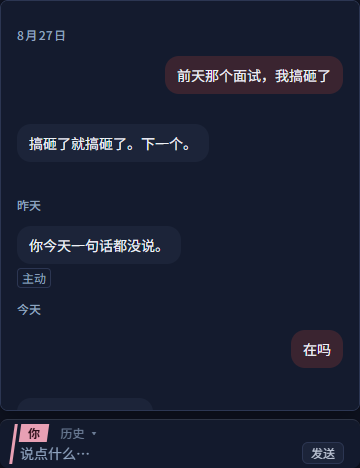
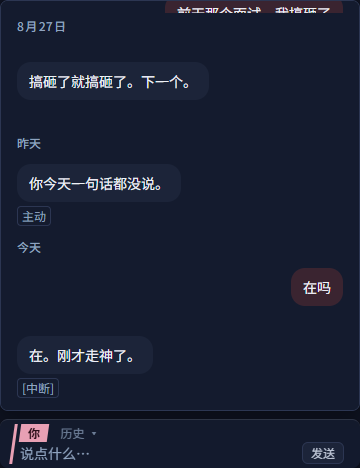
fix(desktop): park the history pane on the newest row, throttle paging, and key the composer restore on a counter
Review round 1, findings 1 (guard), 2, 3, 4 and 6. All five were in T8's own files.

FINDING 2 — History.tsx opened on the OLDEST row and burst-loaded the store.
The paging sentinel is the first child of the scroll container and nothing in the
file touched scrollTop. (a) The pane opened at scrollTop 0 although §6.3 orders rows
newest-at-the-bottom: docs/evidence/phase2/chat-history-light.png showed 8月27日 at
the top with the newest row (the [中断] row) clipped off the bottom edge. (b) With a
real store of >50 rows nextBefore is non-null and the sentinel is already
intersecting at open, so the effect fired, loaded page 2, `loading` flipped false,
the observer was re-created, the sentinel was still at scrollTop 0 and still
intersecting — page 3, 4, ... The whole store arrived in one burst and §6.3's 50-row
paging throttled nothing.

  - the pane gets a ref and, once the first page has painted, parks at
    scrollTop = scrollHeight (a layout effect, once, guarded by parkedRef);
  - the IntersectionObserver is gated on `pagingArmed`, set only while the pane is
    scrolled off the sentinel (scrollTop > 0), from the park and from onScroll;
  - an older page prepended above the reader restores the offset by the height it
    added, so the sentinel leaves the viewport and one scroll-up loads one page;
  - 历史 is a toggle, so closing the pane clears the park: reopening builds a fresh
    div at scrollTop 0 and would otherwise land on the oldest row again. Caught
[…]

diff --git a/apps/desktop/src/renderer/chat/History.test.tsx b/apps/desktop/src/renderer/chat/History.test.tsx
@@ -1,10 +1,11 @@
+// @vitest-environment jsdom
 // tsconfig.ui.json (T0's) includes src/renderer/chat but not src/renderer/test-setup.ts, so
 // jest-dom's `declare module 'vitest'` augmentation never reaches the strict UI type program.
 // Importing it here is what makes `toBeInTheDocument` exist for tsc; at runtime the setup file
 // has already applied it and a second import is a no-op.
 import '@testing-library/jest-dom/vitest';
 import type { HistoryRow } from '@ds/protocol';
-import { cleanup, fireEvent, render, screen, waitFor, within } from '@testing-library/react';
+import { act, cleanup, fireEvent, render, screen, waitFor, within } from '@testing-library/react';
 import { afterEach, describe, expect, it, vi } from 'vitest';
 import { History } from './History';
 
@@ -86,5 +87,70 @@ describe('History', () => {
   it('shows the empty-state copy when there is nothing to read', async () => {
     mount([]);
     await waitFor(() => expect(screen.getByText('还没聊过。说点什么吧。')).toBeInTheDocument());
+  });
+
+  // Fix round 1, finding 2 (a). 6.3 orders rows newest-at-the-bottom, so the pane must open on the
+  // newest row. It used to open at scrollTop 0 — the oldest row — with the newest one clipped off
+  // the bottom edge (visible in docs/evidence/phase2/chat-history-light.png).
+  it('opens parked on the newest row rather than scrolled to the oldest, every time it opens', async () => {
+    const desc = Object.getOwnPropertyDescriptor(Element.prototype, 'scrollHeight');
+    Object.defineProperty(Element.prototype, 'scrollHeight', { configurable: true, get: () => 1000 });
+    try {
+      const list = vi.fn(async () => ({ rows: ROWS, nextBefore: null }));
+      const remove = vi.fn(async () => {});
+      const view = render(<History open list={list} remove={remove} now={() => CLOCK} />);
+      await waitFor(() => expect(screen.getByTestId('msg-3')).toBeInTheDocument());
+      expect(screen.getByRole('log').scrollTop).toBe(1000);
+      // 历史 is a toggle: closing unmounts the pane, so the second open gets a fresh div at
+      // scrollTop 0 and has to be parked again.
+      view.rerender(<History open={false} list={list} remove={remove} now={() => CLOCK} />);
+      expect(screen.queryByRole('log')).toBeNull();
+      view.rerender(<History open list={list} remove={remove} now={() => CLOCK} />);
+      expect(screen.getByRole('log').scrollTop).toBe(1000);
+    } finally {
+      if (desc === undefined) delete (Element.prototype as { scrollHeight?: unknown }).scrollHeight;
+      else Object.defineProperty(Element.prototype, 'scrollHeight', desc);
+    }
+  });
+
+  // Fix round 1, finding 2 (b). The sentinel is the first child of the scroll container, so at
+  // scrollTop 0 it is permanently intersecting: the observer fired, loaded, re-attached, fired
+  // again, and pulled the whole store in one burst. jsdom keeps scrollTop at 0 (no layout), which
+  // is exactly the state the gate has to refuse to observe in.
+  it('does not pull page after page the moment the pane opens', async () => {
+    const observed: Element[] = [];
+    class FakeIO {
+      constructor(private readonly cb: IntersectionObserverCallback) {}
+      observe(el: Element): void {
+        observed.push(el);
+        this.cb(
+          [{ isIntersecting: true, target: el } as IntersectionObserverEntry],
+          this as unknown as IntersectionObserver,
+        );
+      }
+      unobserve(): void {}
+      disconnect(): void {}
+      takeRecords(): IntersectionObserverEntry[] {
+        return [];
+      }
+    }
+    const holder = globalThis as { IntersectionObserver?: unknown };
+    const prev = holder.IntersectionObserver;
+    holder.IntersectionObserver = FakeIO;
+    try {
+      const list = vi.fn(async (opts: { before?: number; limit?: number }) => ({
+        rows: opts.before === undefined ? ROWS : [],
+        nextBefore: opts.before === undefined ? 100 : null,
+      }));
+      render(<History open list={list} remove={vi.fn(async () => {})} now={() => CLOCK} />);
+      await waitFor(() => expect(screen.getByTestId('msg-3')).toBeInTheDocument());
+      await act(async () => {
+        await new Promise((r) => setTimeout(r, 0));
+      });
+      expect(list).toHaveBeenCalledTimes(1);
+      expect(observed).toHaveLength(0);
+    } finally {
+      holder.IntersectionObserver = prev;
+    }
   });
 });

diff --git a/apps/desktop/src/renderer/chat/History.tsx b/apps/desktop/src/renderer/chat/History.tsx
@@ -1,4 +1,4 @@
-import { useCallback, useEffect, useRef, useState } from 'react';
+import { useCallback, useEffect, useLayoutEffect, useRef, useState } from 'react';
 import type { JSX } from 'react';
 import type { HistoryRow } from '@ds/protocol';
 
@@ -33,12 +33,22 @@ export function History(props: HistoryProps): JSX.Element {
   const [nextBefore, setNextBefore] = useState<number | null>(null);
   const [loaded, setLoaded] = useState(false);
   const [loading, setLoading] = useState(false);
+  // The top sentinel is only a paging trigger once the pane is scrolled away from it. At
+  // scrollTop 0 it is permanently intersecting, so observing it there loads page after page in
+  // one burst and 6.3's 50-row paging throttles nothing.
+  const [pagingArmed, setPagingArmed] = useState(false);
   const startedRef = useRef(false);
+  const parkedRef = useRef(false);
+  const anchorRef = useRef<number | null>(null);
+  const paneRef = useRef<HTMLDivElement | null>(null);
   const sentinelRef = useRef<HTMLDivElement | null>(null);
 
   const loadPage = useCallback(
     async (before?: number) => {
       setLoading(true);
+      // An older page is prepended above the sentinel. Remember the height first so the layout
+      // effect below can hold the reader's place instead of letting the offset slide.
+      if (before !== undefined) anchorRef.current = paneRef.current?.scrollHeight ?? null;
       try {
         const page = await list(before === undefined ? { limit: HISTORY_PAGE } : { before, limit: HISTORY_PAGE });
         setRows((prev) => {
@@ -62,9 +72,43 @@ export function History(props: HistoryProps): JSX.Element {
     void loadPage();
   }, [open, loadPage]);
 
+  // 6.3 orders rows newest-at-the-bottom, so the pane opens on the newest row, not the oldest one.
+  // Parking also moves the top sentinel out of view, which is what keeps the paging effect below
+  // from firing the moment the pane opens.
+  useLayoutEffect(() => {
+    if (!open) {
+      // Closing unmounts the pane; reopening builds a fresh div at scrollTop 0, so the park has to
+      // run again or the second open lands on the oldest row.
+      parkedRef.current = false;
+      setPagingArmed(false);
+      return;
+    }
+    if (!loaded || parkedRef.current) return;
+    const el = paneRef.current;
+    if (el === null) return;
+    parkedRef.current = true;
+    el.scrollTop = el.scrollHeight;
+    setPagingArmed(el.scrollTop > 0);
+  }, [open, loaded]);
+
+  // Hold the reader's place when an older page lands above them.
+  useLayoutEffect(() => {
+    const before = anchorRef.current;
+    if (before === null) return;
+    anchorRef.current = null;
+    const el = paneRef.current;
+    if (el === null) return;
+    el.scrollTop += el.scrollHeight - before;
+  }, [rows]);
+
+  const onScroll = useCallback(() => {
+    const el = paneRef.current;
+    setPagingArmed(el !== null && el.scrollTop > 0);
+  }, []);
+
   // Paging: the top sentinel scrolls into view -> fetch the previous page. No virtualization (6.3).
   useEffect(() => {
-    if (!open || nextBefore === null || loading) return;
+    if (!open || nextBefore === null || loading || !pagingArmed) return;
     if (typeof IntersectionObserver === 'undefined') return;
     const el = sentinelRef.current;
     if (el === null) return;
@@ -75,7 +119,7 @@ export function History(props: HistoryProps): JSX.Element {
     return () => {
       io.disconnect();
     };
-  }, [open, nextBefore, loading, loadPage]);
+  }, [open, nextBefore, loading, pagingArmed, loadPage]);
 
   const onDelete = useCallback(
     async (turnId: string) => {
@@ -141,7 +185,7 @@ export function History(props: HistoryProps): JSX.Element {
   }
 
   return (
-    <div className="history" role="log" aria-label="聊天记录">
+    <div className="history" role="log" aria-label="聊天记录" ref={paneRef} onScroll={onScroll}>
       <div className="history__sentinel" ref={sentinelRef} />
       {items}
       {loaded && rows.length === 0 && <p className="history__empty">还没聊过。说点什么吧。</p>}

diff --git a/apps/desktop/src/renderer/chat/Composer.test.tsx b/apps/desktop/src/renderer/chat/Composer.test.tsx
@@ -1,6 +1,7 @@
+// @vitest-environment jsdom
 import { act, cleanup, fireEvent, render, screen } from '@testing-library/react';
 import { afterEach, describe, expect, it, vi } from 'vitest';
-import { Composer, type ComposerProps } from './Composer';
+import { Composer, type ComposerProps, type SendResult } from './Composer';
 
 // vitest runs with `globals: false`, so @testing-library/react cannot find a global `afterEach`
 // to register its auto-cleanup on. Without this the previous test's tree stays in document.body
@@ -148,5 +149,54 @@ describe('Composer', () => {
     rerender(<Composer {...p} />);
     fireEvent.keyDown(screen.getByRole('textbox'), { key: 'Escape' });
     expect(p.onClose).toHaveBeenCalledTimes(1);
+  });
+
+  // Fix round 1, finding 4. restore() used to key its focus/select effect on `value`; when the
+  // restored text equalled what the user had already retyped, React bailed out of the re-render,
+  // the effect never ran, and restoreRef stayed loaded so the NEXT keystroke fired a stale
+  // setSelectionRange over freshly typed text.
+  it('restores and selects even when the retyped text equals the restored text', async () => {
+    let settle: (r: SendResult) => void = () => {};
+    const p = props({
+      onSend: vi.fn(
+        () =>
+          new Promise<SendResult>((res) => {
+            settle = res;
+          }),
+      ),
+    });
+    render(<Composer {...p} />);
+    const ta = screen.getByRole('textbox') as HTMLTextAreaElement;
+    fireEvent.change(ta, { target: { value: '在吗' } });
+    fireEvent.keyDown(ta, { key: 'Enter' });
+    await tick();
+    expect(ta.value).toBe('');
+    // The user retypes the same two characters while the send is still in flight.
+    fireEvent.change(ta, { target: { value: '在吗' } });
+    await act(async () => {
+      settle({ ok: false, code: 'no-key', message: '还没填 API Key' });
+      await new Promise((r) => setTimeout(r, 0));
+    });
+    expect(ta.value).toBe('在吗');
+    expect(document.activeElement).toBe(ta);
+    expect(ta.selectionStart).toBe(0);
+    expect(ta.selectionEnd).toBe(2);
+  });
+
+  // Fix round 1, finding 3. Pins the polarity: focus/blur are the UNLATCH (2.3's recovery rule),
+  // and compositionstart is the only thing that arms the guard — which is also the only thing that
+  // now raises main's `avatar:listening` pose (6.6, narrowed by the fix-round-1 amendment).
+  it('unlatches on focus and blur; only compositionstart arms the guard', () => {
+    const p = props();
+    render(<Composer {...p} />);
+    const ta = screen.getByRole('textbox');
+    vi.mocked(p.onComposingChange).mockClear(); // autoFocus has already fired one unlatch
+    fireEvent.focus(ta);
+    fireEvent.blur(ta);
+    expect(p.onComposingChange).toHaveBeenCalledTimes(2);
+    expect(p.onComposingChange).toHaveBeenNthCalledWith(1, false);
+    expect(p.onComposingChange).toHaveBeenNthCalledWith(2, false);
+    fireEvent.compositionStart(ta);
+    expect(p.onComposingChange).toHaveBeenLastCalledWith(true);
   });
 });

diff --git a/apps/desktop/src/renderer/chat/Composer.tsx b/apps/desktop/src/renderer/chat/Composer.tsx
@@ -53,6 +53,12 @@ export function Composer(props: ComposerProps): JSX.Element {
   const restoreRef = useRef<string | null>(null);
   const [value, setValue] = useState('');
   const [rows, setRows] = useState(1);
+  // Bumped by restore(). The focus/select effect keys on this counter rather than on `value`,
+  // because a restore can put back the SAME string the user has already retyped: React then bails
+  // out of the re-render, the effect never runs, the restored text is neither focused nor selected
+  // (spec 8 / 6.2 rule 6), and restoreRef stays populated so the next keystroke fires a stale
+  // setSelectionRange over freshly typed text.
+  const [restoreTick, setRestoreTick] = useState(0);
 
   // Auto-grow: newline count, raised by wrapped-line overflow, capped at CHAT_MAX_ROWS.
   useLayoutEffect(() => {
@@ -80,19 +86,23 @@ export function Composer(props: ComposerProps): JSX.Element {
   }, [rows, onRowsChange]);
 
   // Runs after the restored text is committed, so the selection covers the real value.
+  // `setValue` and `setRestoreTick` are dispatched together, so React commits both in one render
+  // and the textarea already holds the restored text by the time this runs.
   useEffect(() => {
+    if (restoreTick === 0) return;
     const text = restoreRef.current;
-    if (text === null) return;
     restoreRef.current = null;
+    if (text === null) return;
     const el = inputRef.current;
     if (el === null) return;
     el.focus();
     el.setSelectionRange(0, text.length);
-  }, [value]);
+  }, [restoreTick]);
 
   const restore = useCallback((text: string) => {
     restoreRef.current = text;
     setValue(text);
+    setRestoreTick((n) => n + 1);
   }, []);
 
   useEffect(() => {
@@ -201,6 +211,14 @@ export function Composer(props: ComposerProps): JSX.Element {
           // `{on:false}` can reach it — verified in the real app: a click on the desktop landed
           // (foreground became Progman) but the chat never dismissed. Only compositionstart arms
           // the guard, which is the "composer focused AND an IME session open" state 2.3 names.
+          //
+          // R9 side effect, recorded rather than papered over: main also derives `avatar:listening`
+          // from this channel (6.6, 250 ms falling-edge debounce). With the polarity corrected,
+          // `{on:true}` is produced by `compositionstart` only, so the listening pose now means
+          // "an IME session is open", not "the composer has focus" — typing Latin text or pasting
+          // never raises it. contracts.md 6.6 carries the same narrowing as a fix-round-1
+          // amendment; re-pinning the producer (composer focus plus keystroke activity, derived in
+          // main) is a T6/controller change and deliberately out of T8's ownership.
           onFocus={() => onComposingChange(false)}
           onBlur={() => onComposingChange(false)}
         />

diff --git a/apps/desktop/src/renderer/shared/tsx-lane.test.ts b/apps/desktop/src/renderer/shared/tsx-lane.test.ts
@@ -1,0 +1,54 @@
+// @vitest-environment node
+import { existsSync, readFileSync } from 'node:fs';
+import { fileURLToPath } from 'node:url';
+import { describe, expect, it } from 'vitest';
+
+// ---------------------------------------------------------------------------
+// The .tsx collection guard.
+//
+// T8's 24 React tests live in `.tsx` files, which vitest only collects because
+// `apps/desktop/vitest.config.ts` says `include: ['src/**/*.test.{ts,tsx}']`. That file is T7's
+// (contracts.md 1.4) and reached this branch through the disposable bootstrap commit a145f03.
+// If an integrator drops a145f03 while merging T8's own commit and T7 has not landed, `include`
+// reverts to Phase 1's `src/**/*.test.ts`, every .tsx suite is silently never collected, and
+// `pnpm test` still prints green — an invisible regression.
+//
+// THIS FILE IS THE ALARM. It is a `.ts` file, so it is collected under both the narrow and the
+// widened `include`, and it fails loudly the moment the .tsx lane stops working. a145f03 is a
+// HARD PREREQUISITE of T8's commit: never merge one without the other, or land T7 first and
+// rebase T8 onto it. It runs in `node` by an explicit docblock so it keeps working whichever
+// shape contracts.md 1.5's environment rule finally takes.
+// ---------------------------------------------------------------------------
+
+const DESKTOP = new URL('../../../', import.meta.url);
+const CONFIG = fileURLToPath(new URL('vitest.config.ts', DESKTOP));
+
+/** Every suite whose tests exist only if the .tsx lane is collected, and which needs a DOM. */
+const TSX_SUITES = [
+  'src/renderer/chat/Composer.test.tsx',
+  'src/renderer/chat/History.test.tsx',
+  'src/renderer/key/App.test.tsx',
+];
+
+describe('tsx test lane', () => {
+  it("vitest's include collects .tsx test files", () => {
+    const config = readFileSync(CONFIG, 'utf8');
+    const include = /include:\s*\[([^\]]*)\]/.exec(config);
+    expect(include, `no include: [...] in ${CONFIG}`).not.toBeNull();
+    // Phase 1's 'src/**/*.test.ts' does not match, '{ts,tsx}' and '*.test.tsx' both do.
+    expect(include?.[1]).toMatch(/tsx/);
+  });
+
+  it('every .tsx suite is still on disk', () => {
+    for (const rel of TSX_SUITES) {
+      expect(existsSync(fileURLToPath(new URL(rel, DESKTOP))), `${rel} is missing`).toBe(true);
+    }
+  });
+
+  it('every .tsx suite opts into jsdom on line 1', () => {
+    for (const rel of TSX_SUITES) {
+      const first = readFileSync(fileURLToPath(new URL(rel, DESKTOP)), 'utf8').split('\n', 1)[0];
+      expect(first.trim(), `${rel} line 1`).toBe('// @vitest-environment jsdom');
+    }
+  });
+});

diff --git a/apps/desktop/src/renderer/chat/App.tsx b/apps/desktop/src/renderer/chat/App.tsx
@@ -4,7 +4,7 @@ import { Channels, ERROR_HINTS, InvokeChannels } from '@ds/protocol';
 import type { TurnState } from '@ds/protocol';
 import { Composer } from './Composer';
 import type { SendResult, TurnDoneSignal, TurnErrorSignal } from './Composer';
-import { History } from './History';
+import { History, HISTORY_PAGE } from './History';
 import type { DsInvokeBridge } from './bridge';
 
 export interface AppProps {
@@ -81,7 +81,7 @@ export function App({ bridge }: AppProps): JSX.Element {
 
   const list = useCallback(
     (opts: { before?: number; limit?: number }) =>
-      bridge.invoke(InvokeChannels.historyList, { before: opts.before, limit: opts.limit ?? 50 }),
+      bridge.invoke(InvokeChannels.historyList, { before: opts.before, limit: opts.limit ?? HISTORY_PAGE }),
     [bridge],
   );
   const remove = useCallback(

diff --git a/apps/desktop/src/renderer/key/App.test.tsx b/apps/desktop/src/renderer/key/App.test.tsx
@@ -1,3 +1,4 @@
+// @vitest-environment jsdom
 // See chat/History.test.tsx: tsconfig.ui.json does not include src/renderer/test-setup.ts, so
 // jest-dom's vitest augmentation has to be imported here for `toBeInTheDocument` to type-check.
 import '@testing-library/jest-dom/vitest';
